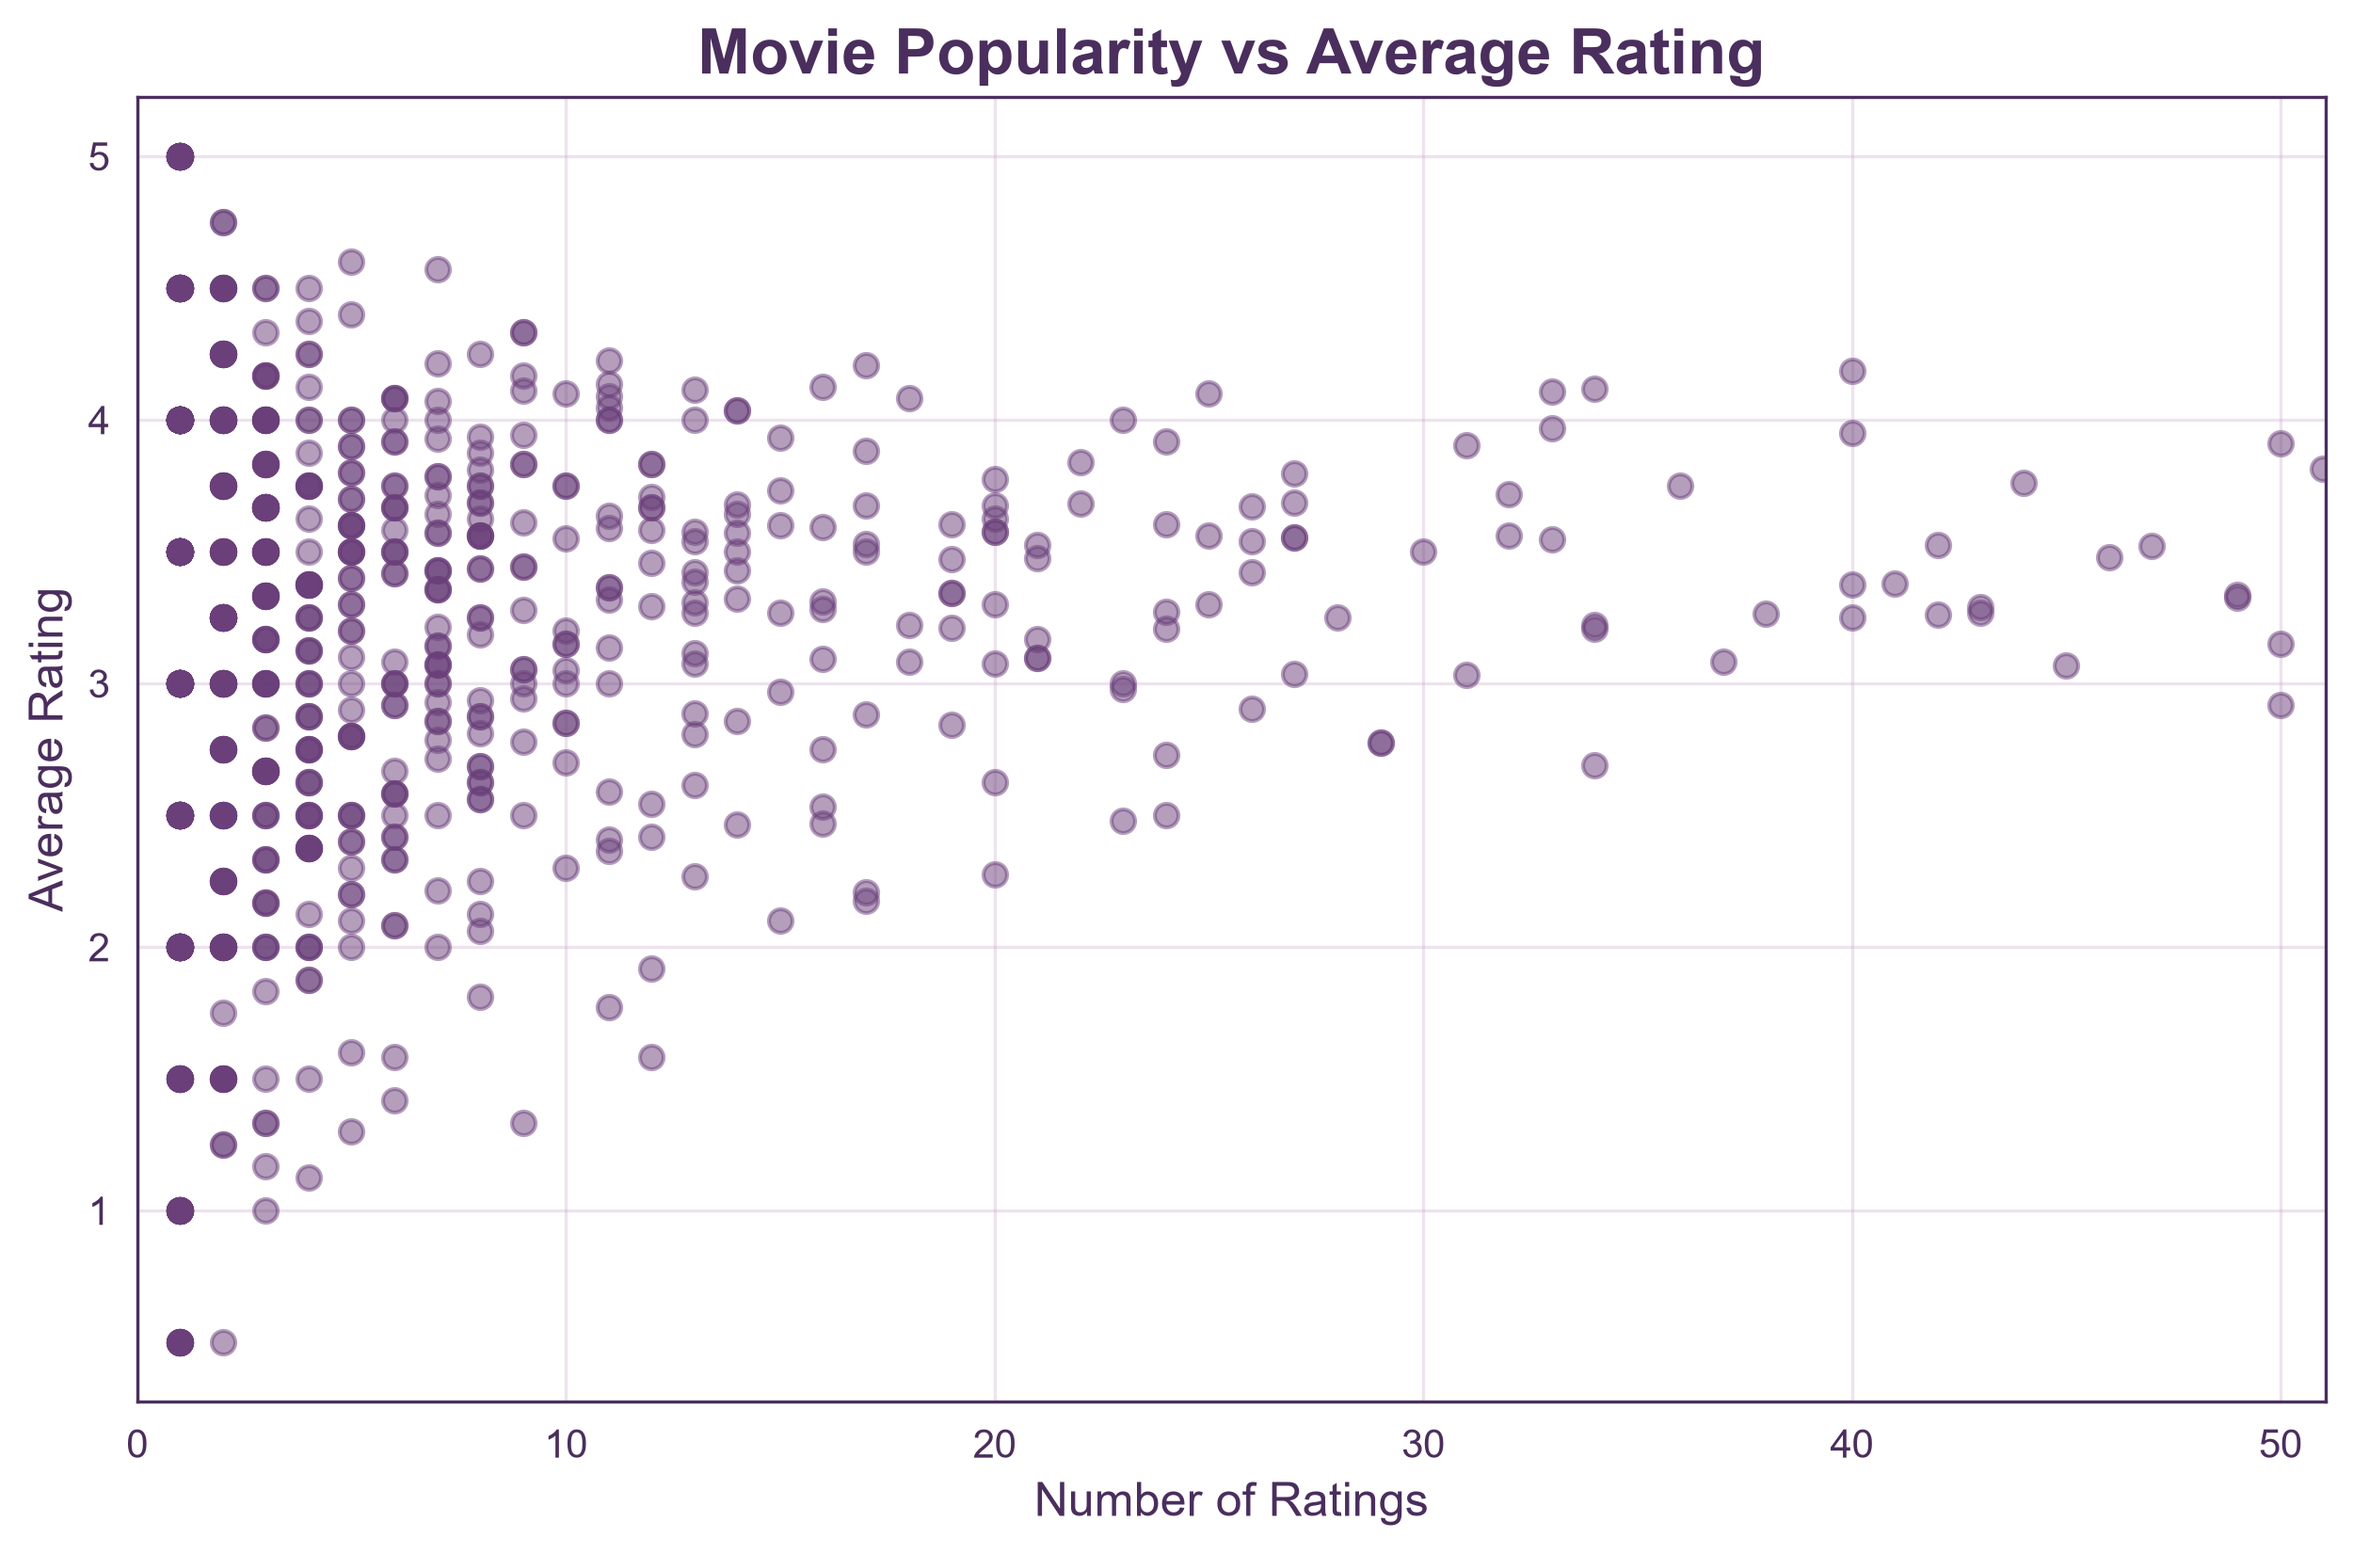
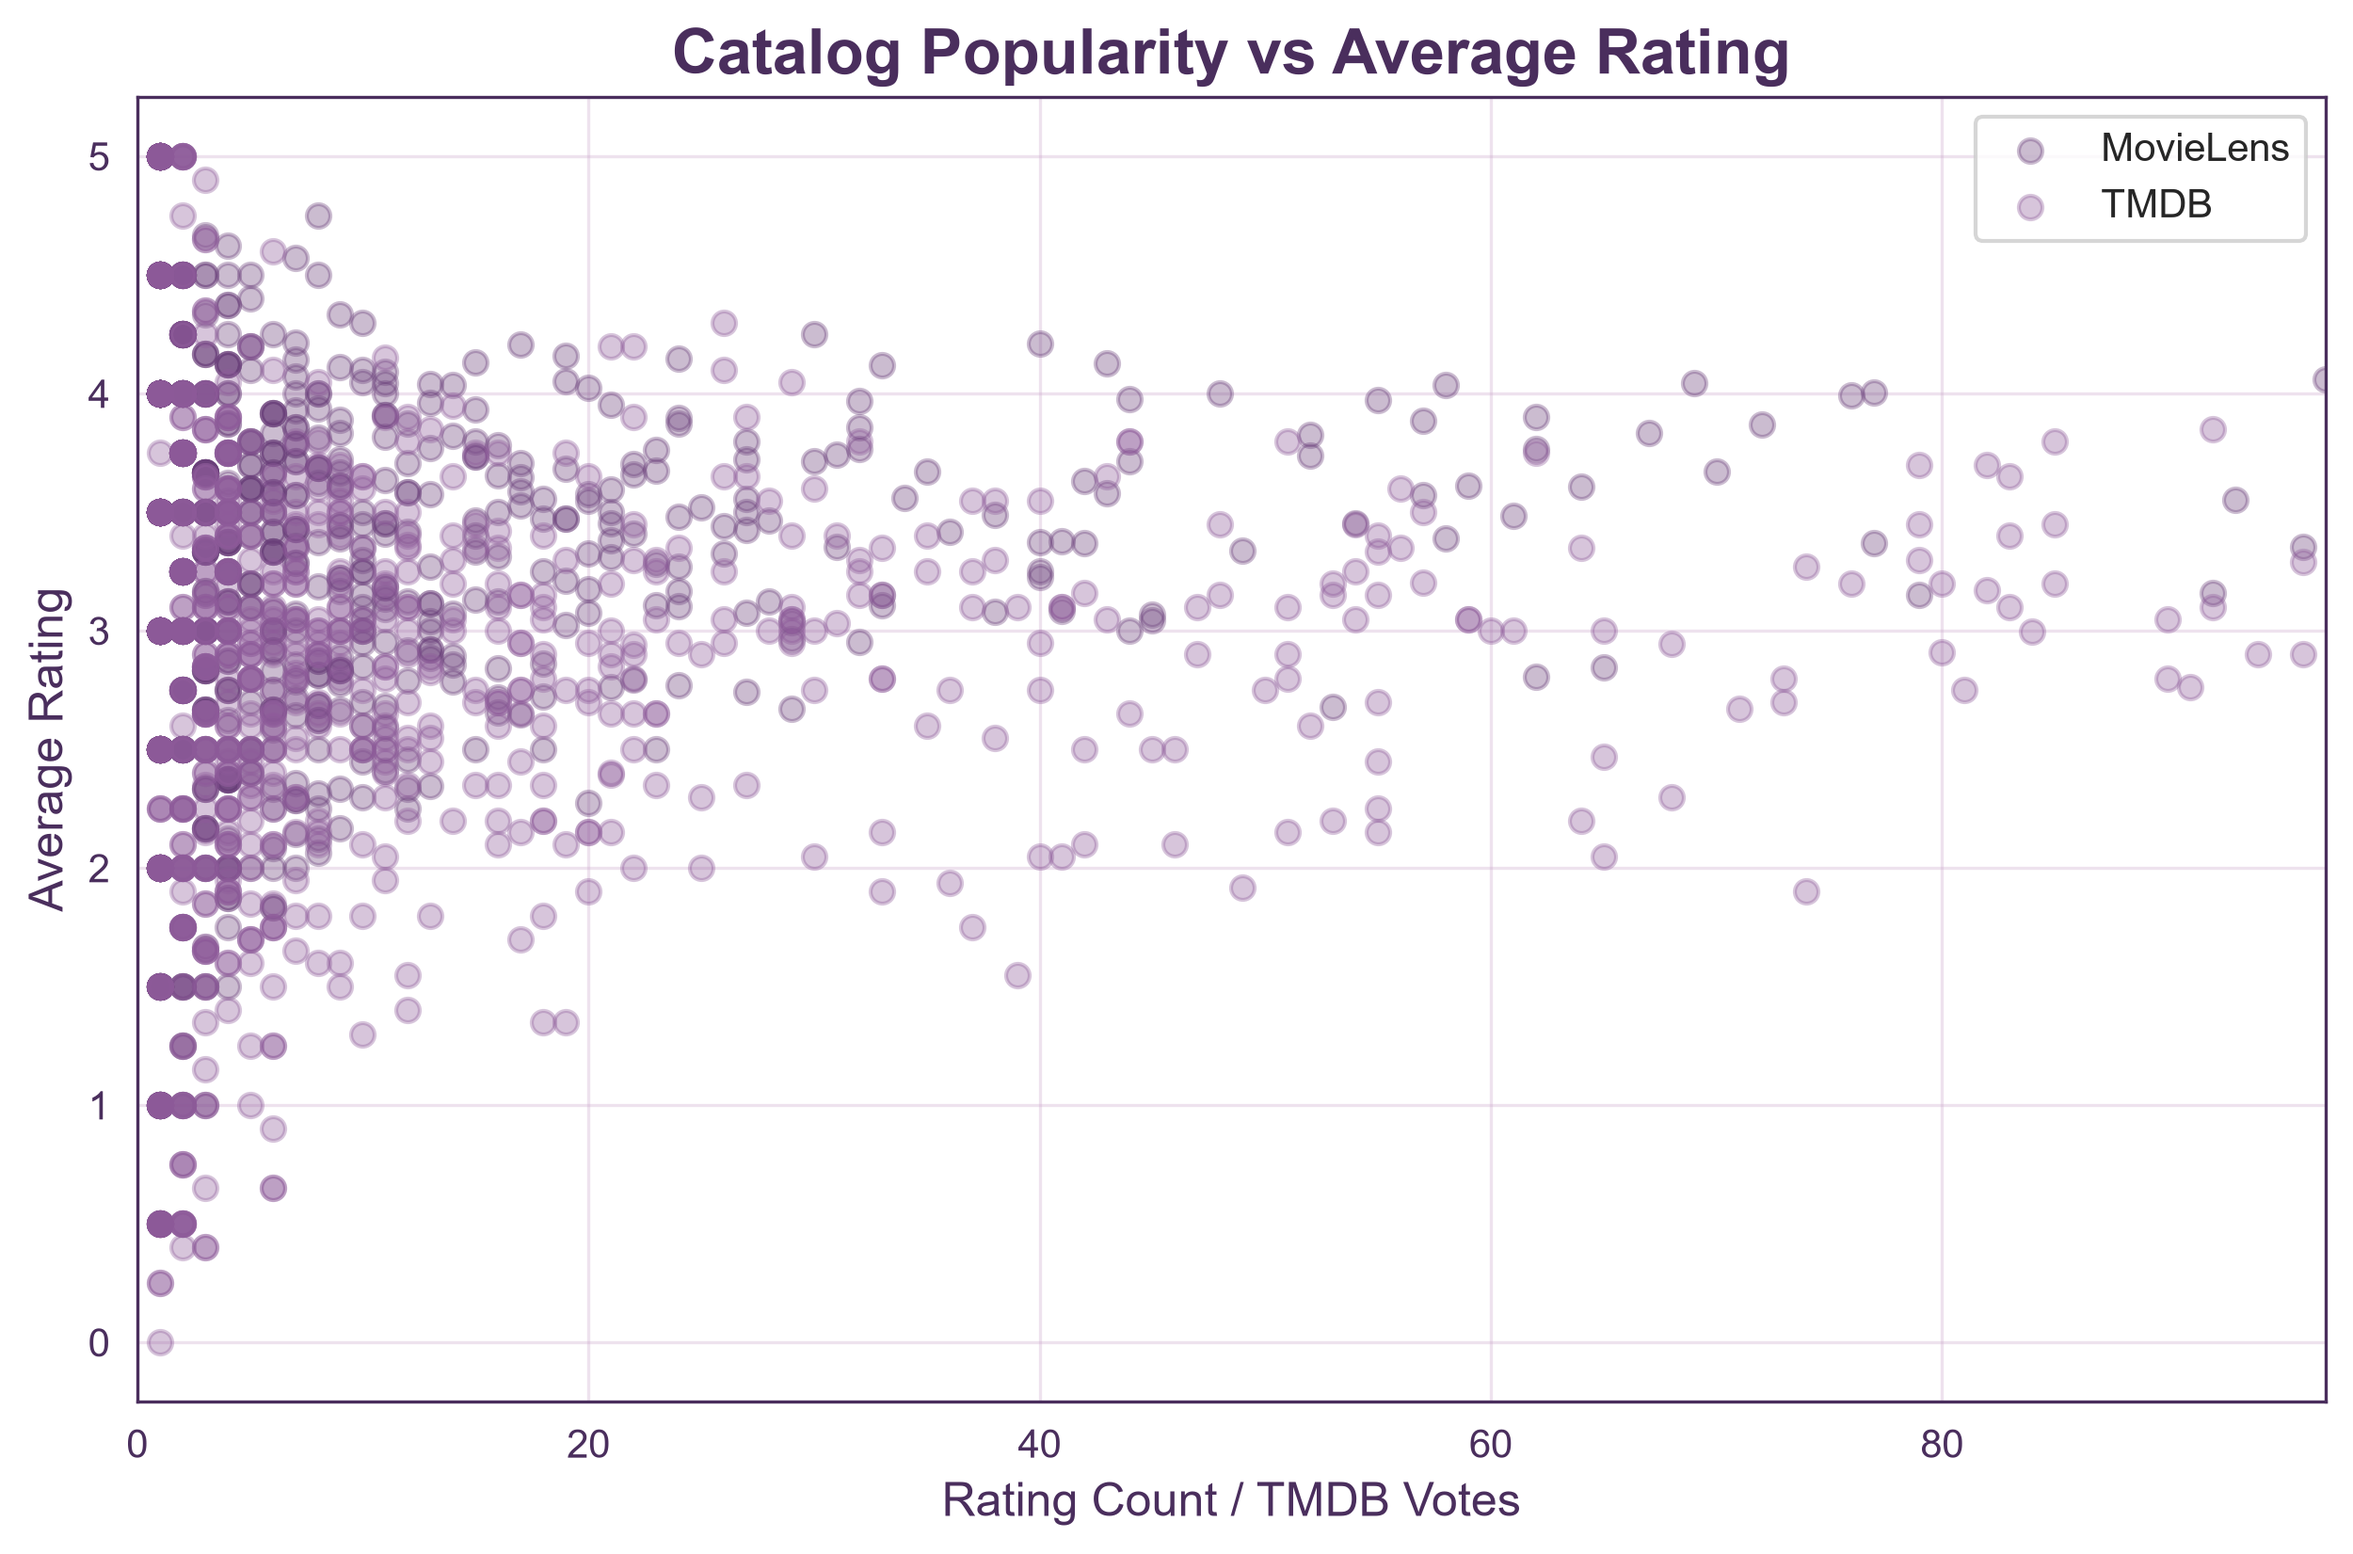
updated figures according to tmdb data

diff --git a/data_scripts/03_feature_strategy.py b/data_scripts/03_feature_strategy.py
@@ -1,8 +1,15 @@
-import pandas as pd
-import matplotlib.pyplot as plt
-import seaborn as sns
+import json
 import os
+from pathlib import Path
+import sys
+
+import matplotlib.pyplot as plt
+import pandas as pd
+import seaborn as sns
 from sklearn.preprocessing import StandardScaler, MinMaxScaler, LabelEncoder
+
+sys.path.insert(0, str(Path(__file__).resolve().parents[1]))
+from tmdb_catalog import TMDB_GENRE_NAMES, TMDB_MOVIE_ID_OFFSET
 
 LILAC = '#C8A2C8'
 PURPLE = '#8E5B9A'
@@ -110,7 +117,91 @@ def engineer_movie_features(movies_df, ratings_df):
     return movies_df
 
 
-def generate_eda_plots(movies_df, ratings_df, user_features):
+def load_catalog_eda_data(movies_df):
+    """Load MovieLens and current TMDB catalog rows for catalog-level figures."""
+    catalog = movies_df[["movieId", "genres"]].copy()
+    catalog["source"] = "MovieLens"
+    popularity = (
+        movies_df[["movieId", "num_ratings", "avg_rating"]]
+        .rename(columns={"num_ratings": "popularity", "avg_rating": "rating"})
+        .assign(source="MovieLens")
+    )
+
+    tmdb_rows = []
+    raw_paths = (
+        Path("data/raw/full_load_2005_2014.json"),
+        Path("data/raw/full_load.json"),
+        Path("data/raw/tmdb_incremental_catalog.json"),
+    )
+    for path in raw_paths:
+        if not path.is_file():
+            continue
+        with path.open(encoding="utf-8") as source:
+            payload = json.load(source)
+        records = payload.get("results", payload.get("movies", []))
+        for record in records:
+            try:
+                tmdb_id = int(record.get("id", 0))
+                vote_average = float(record.get("vote_average", 0.0))
+                vote_count = int(record.get("vote_count", 0))
+            except (TypeError, ValueError):
+                continue
+            if tmdb_id <= 0 or vote_count < 0:
+                continue
+            genres = record.get("genres") or [
+                {"id": genre_id}
+                for genre_id in record.get("genre_ids", [])
+            ]
+            genre_names = [
+                genre.get("name") or TMDB_GENRE_NAMES.get(genre.get("id"))
+                for genre in genres
+                if isinstance(genre, dict)
+            ]
+            tmdb_rows.append(
+                {
+                    "movieId": TMDB_MOVIE_ID_OFFSET + tmdb_id,
+                    "genres": "|".join(
+                        dict.fromkeys(
+                            genre for genre in genre_names if genre
+                        )
+                    ),
+                    "popularity": vote_count,
+                    "rating": vote_average / 2,
+                    "source": "TMDB",
+                }
+            )
+
+    tmdb = pd.DataFrame(tmdb_rows).drop_duplicates("movieId")
+    links_path = Path("data/raw/links.csv")
+    if not tmdb.empty and links_path.is_file():
+        linked_tmdb_ids = set(
+            pd.to_numeric(
+                pd.read_csv(links_path, usecols=["tmdbId"])["tmdbId"],
+                errors="coerce",
+            )
+            .dropna()
+            .astype(int)
+        )
+        tmdb = tmdb[
+            ~tmdb["movieId"].sub(TMDB_MOVIE_ID_OFFSET).isin(linked_tmdb_ids)
+        ]
+    if not tmdb.empty:
+        catalog = pd.concat(
+            [catalog, tmdb[["movieId", "genres", "source"]]],
+            ignore_index=True,
+        )
+        popularity = pd.concat(
+            [popularity, tmdb[["movieId", "popularity", "rating", "source"]]],
+            ignore_index=True,
+        )
+    return catalog.merge(
+        popularity[["movieId", "popularity", "rating"]],
+        on="movieId",
+        how="left",
+    )
+
+
+def generate_eda_plots(movies_df, ratings_df, user_features, catalog_data):
     print("\ngenerating plots")
 
     os.makedirs('docs/figures', exist_ok=True)
@@ -128,12 +219,23 @@ def generate_eda_plots(movies_df, ratings_df, user_features):
 
     # 2. genre distribution
     plt.figure(figsize=(12, 6))
-    movies_df['primary_genre'].value_counts().head(10).plot(
+    catalog_genres = (
+        catalog_data["genres"]
+        .fillna("")
+        .str.split("|")
+        .explode()
+        .loc[lambda values: values.ne("")]
+    )
+    catalog_genres.value_counts().head(10).plot(
         kind='bar',
         color=[LILAC, PURPLE, DEEP_PURPLE, DARK_PURPLE] * 3,
         edgecolor='white',
     )
-    plt.title('Top 10 Movie Genres', fontsize=16, fontweight='bold')
+    plt.title(
+        'Top 10 Genres in MovieLens + TMDB Catalog',
+        fontsize=16,
+        fontweight='bold',
+    )
     plt.xlabel('Genre', fontsize=12)
     plt.ylabel('Count', fontsize=12)
     plt.xticks(rotation=45, ha='right')
@@ -174,18 +276,33 @@ def generate_eda_plots(movies_df, ratings_df, user_features):
 
     # 5. popularity vs rating
     plt.figure(figsize=(10, 6))
-    rated_movies = movies_df[movies_df['num_ratings'] > 0]
-    sample = rated_movies.sample(min(1000, len(rated_movies)))
-
-    plt.scatter(
-        sample['num_ratings'], sample['avg_rating'],
-        alpha=0.5, color=DEEP_PURPLE
-    )
-    plt.title('Movie Popularity vs Average Rating',
+    for source, color in (
+        ("MovieLens", DEEP_PURPLE),
+        ("TMDB", PURPLE),
+    ):
+        source_data = catalog_data[
+            (catalog_data["source"] == source)
+            & (catalog_data["popularity"] > 0)
+        ]
+        if source_data.empty:
+            continue
+        sample = source_data.sample(
+            min(1000, len(source_data)),
+            random_state=42,
+        )
+        plt.scatter(
+            sample['popularity'],
+            sample['rating'],
+            alpha=0.35,
+            color=color,
+            label=source,
+        )
+    plt.title('Catalog Popularity vs Average Rating',
               fontsize=16, fontweight='bold')
-    plt.xlabel('Number of Ratings', fontsize=12)
+    plt.xlabel('Rating Count / TMDB Votes', fontsize=12)
     plt.ylabel('Average Rating', fontsize=12)
-    plt.xlim(0, sample['num_ratings'].quantile(0.95))
+    plt.xlim(0, catalog_data['popularity'].quantile(0.95))
+    plt.legend()
     plt.grid(alpha=0.3)
     plt.savefig('docs/figures/popularity_vs_rating.png',
                 dpi=300, bbox_inches='tight')
@@ -221,8 +338,9 @@ def main():
 
     user_features = engineer_user_features(ratings_df)
     movies_df = engineer_movie_features(movies_df, ratings_df)
+    catalog_data = load_catalog_eda_data(movies_df)
 
-    generate_eda_plots(movies_df, ratings_df, user_features)
+    generate_eda_plots(movies_df, ratings_df, user_features, catalog_data)
     save_engineered_features(movies_df, user_features)
 
     print("\nfeature engineering complete")

diff --git a/docs/final.tex b/docs/final.tex
@@ -279,7 +279,7 @@ Applied to: rating count, average rating (zero mean, unit variance)
 \begin{figure}[H]
     \centering
     \includegraphics[width=0.75\textwidth]{figures/rating_distribution.png}
-    \caption{User ratings follow left-skewed distribution, indicating positive rating bias (users preferentially rate movies they enjoy)}
+    \caption{Distribution of MovieLens user ratings (the user-level training source)}
     \label{fig:rating_dist}
 \end{figure}
 
@@ -289,17 +289,17 @@ Mean rating $\approx 3.5/5.0$ with selection bias—users rate content they like
 \begin{figure}[H]
     \centering
     \includegraphics[width=0.75\textwidth]{figures/genre_distribution.png}
-    \caption{Drama and Comedy dominate catalog (40\% of entries), indicating class imbalance requiring stratified sampling}
+    \caption{Top genres across the combined MovieLens and TMDB catalog}
     \label{fig:genre_dist}
 \end{figure}
 
-Genre imbalance (Drama, Comedy $>$40\%) necessitates stratified evaluation and genre-aware bias checking.
+This catalog-level view includes the TMDB full-load and incremental records used for discovery; the collaborative model itself remains trained on MovieLens ratings.
 
 \subsubsection{User Activity Patterns}
 \begin{figure}[H]
     \centering
     \includegraphics[width=0.75\textwidth]{figures/user_activity.png}
-    \caption{Power-law distribution: few highly-active users dominate rating volume; majority are sparse}
+    \caption{MovieLens user activity follows a long-tail distribution}
     \label{fig:user_activity}
 \end{figure}
 
@@ -319,11 +319,11 @@ Weak feature correlations confirm independent signal contribution; minimal redun
 \begin{figure}[H]
     \centering
     \includegraphics[width=0.75\textwidth]{figures/popularity_vs_rating.png}
-    \caption{Weak correlation between popularity (rating count) and quality (average rating)}
+    \caption{Catalog popularity versus average rating: MovieLens rating counts and TMDB vote counts}
     \label{fig:pop_vs_rating}
 \end{figure}
 
-Popular movies do not necessarily receive higher ratings—mainstream appeal differs from critical quality, enabling diverse recommendations.
+The combined view compares MovieLens rating counts and TMDB vote counts with ratings on a common five-point scale; popularity alone is not a sufficient quality signal.
 
 % =========================================================
 % PART 3: MODEL ARCHITECTURE & TRAINING
